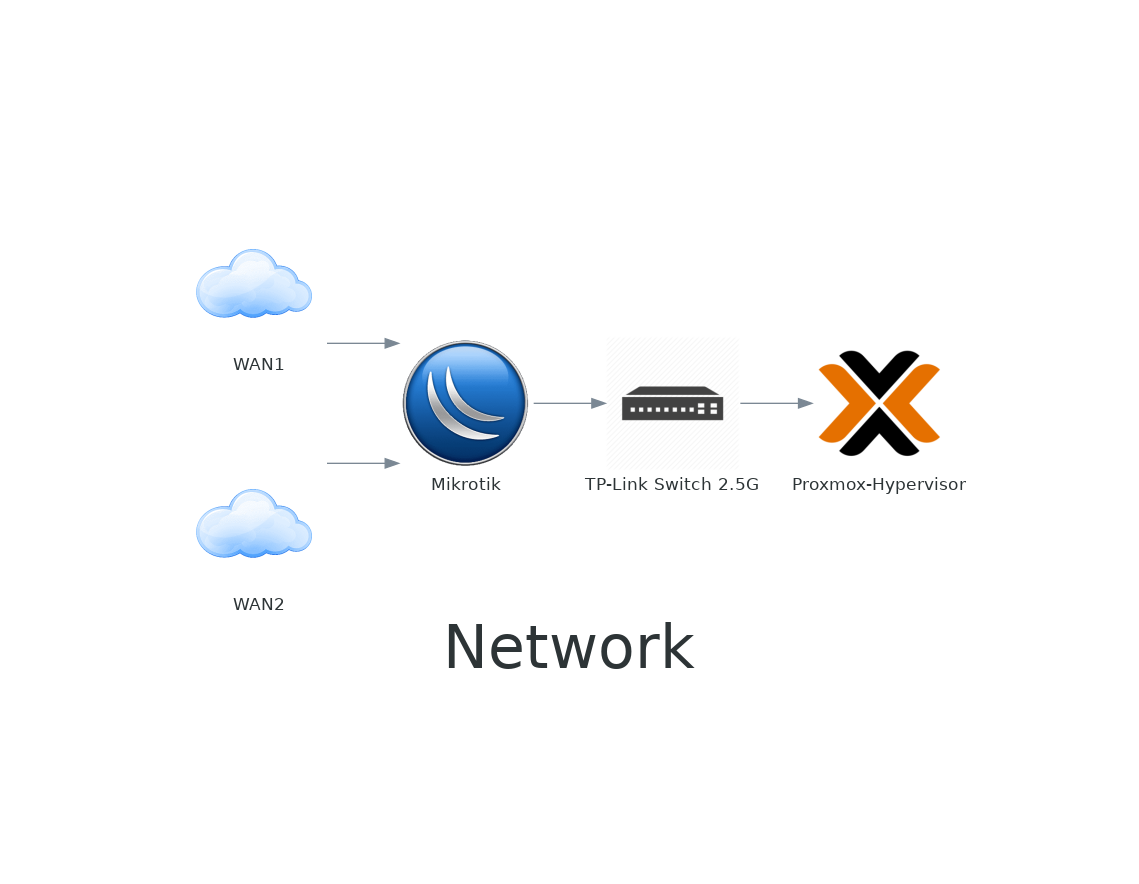
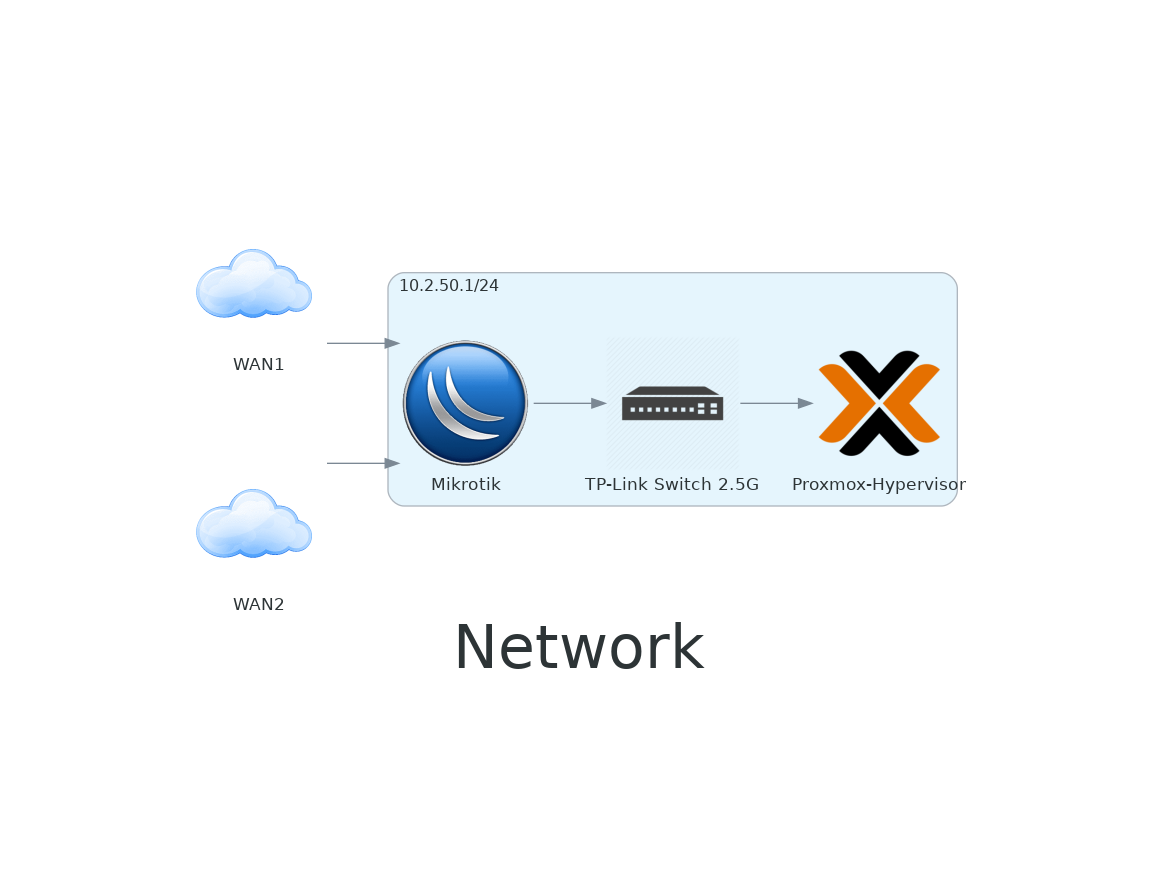
added subnet

diff --git a/src/homelab.py b/src/homelab.py
@@ -19,8 +19,9 @@ graph_attr = {
 with Diagram("Network", show=False, graph_attr=graph_attr ):
     wan1 = Custom("WAN1", "img/wan.png")
     wan2 = Custom("WAN2", "img/wan.png")
-    mikrotik = Custom("Mikrotik","img/mikrotik.png")
-    [wan1,wan2] >> mikrotik >> Switch("TP-Link Switch 2.5G") >> Pve("Proxmox-Hypervisor")
+    with Cluster("10.2.50.1/24"):    
+        mikrotik = Custom("Mikrotik","img/mikrotik.png")
+        [wan1,wan2] >> mikrotik >> Switch("TP-Link Switch 2.5G") >> Pve("Proxmox-Hypervisor")
 
 with Diagram("Apps", show=False, graph_attr=graph_attr):
     with Cluster("Proxmox"):
